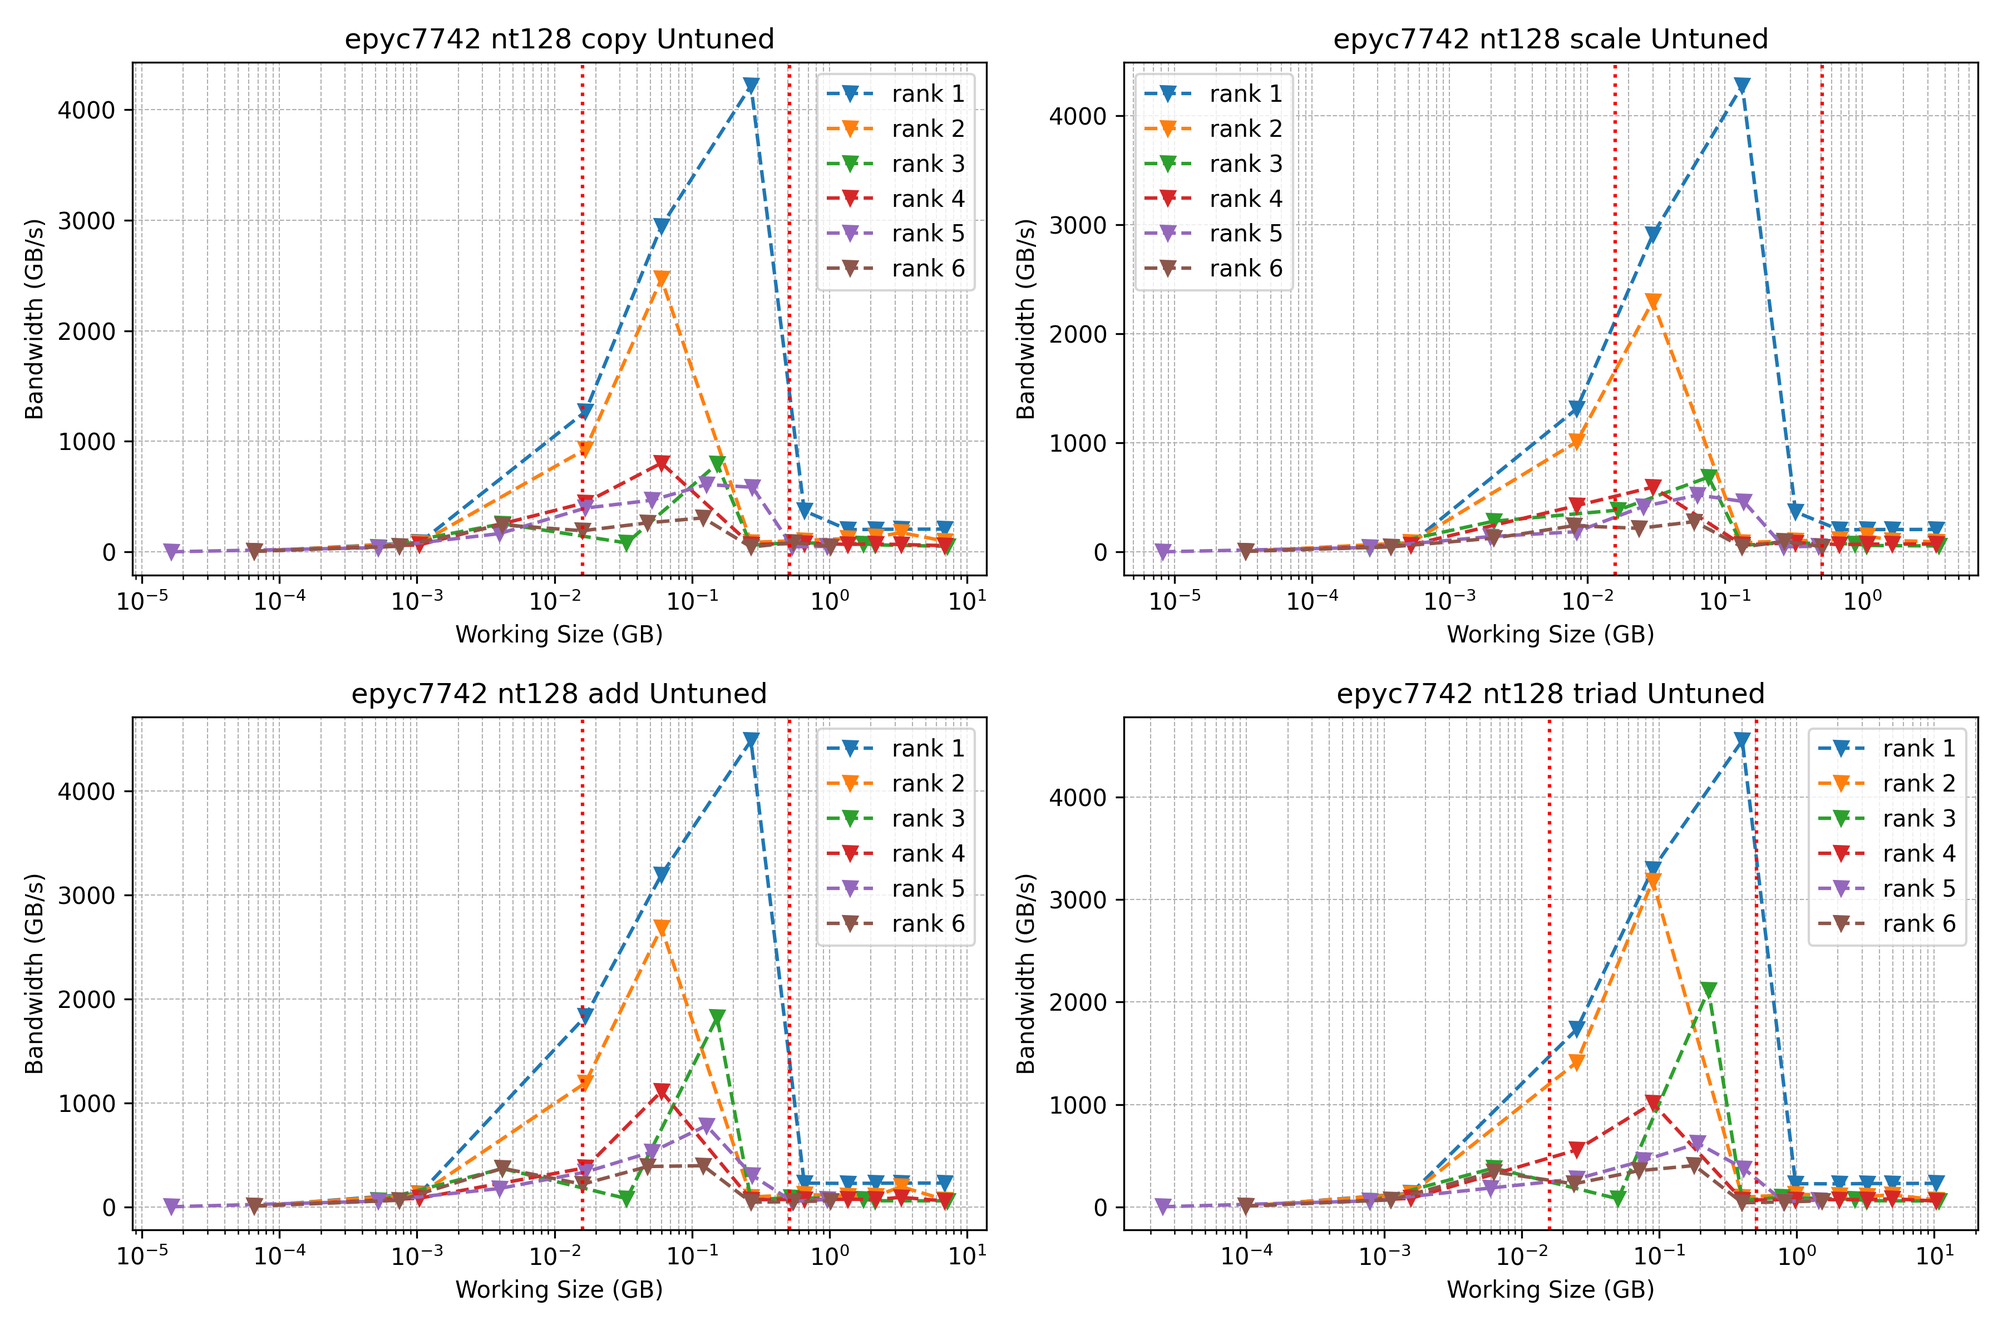
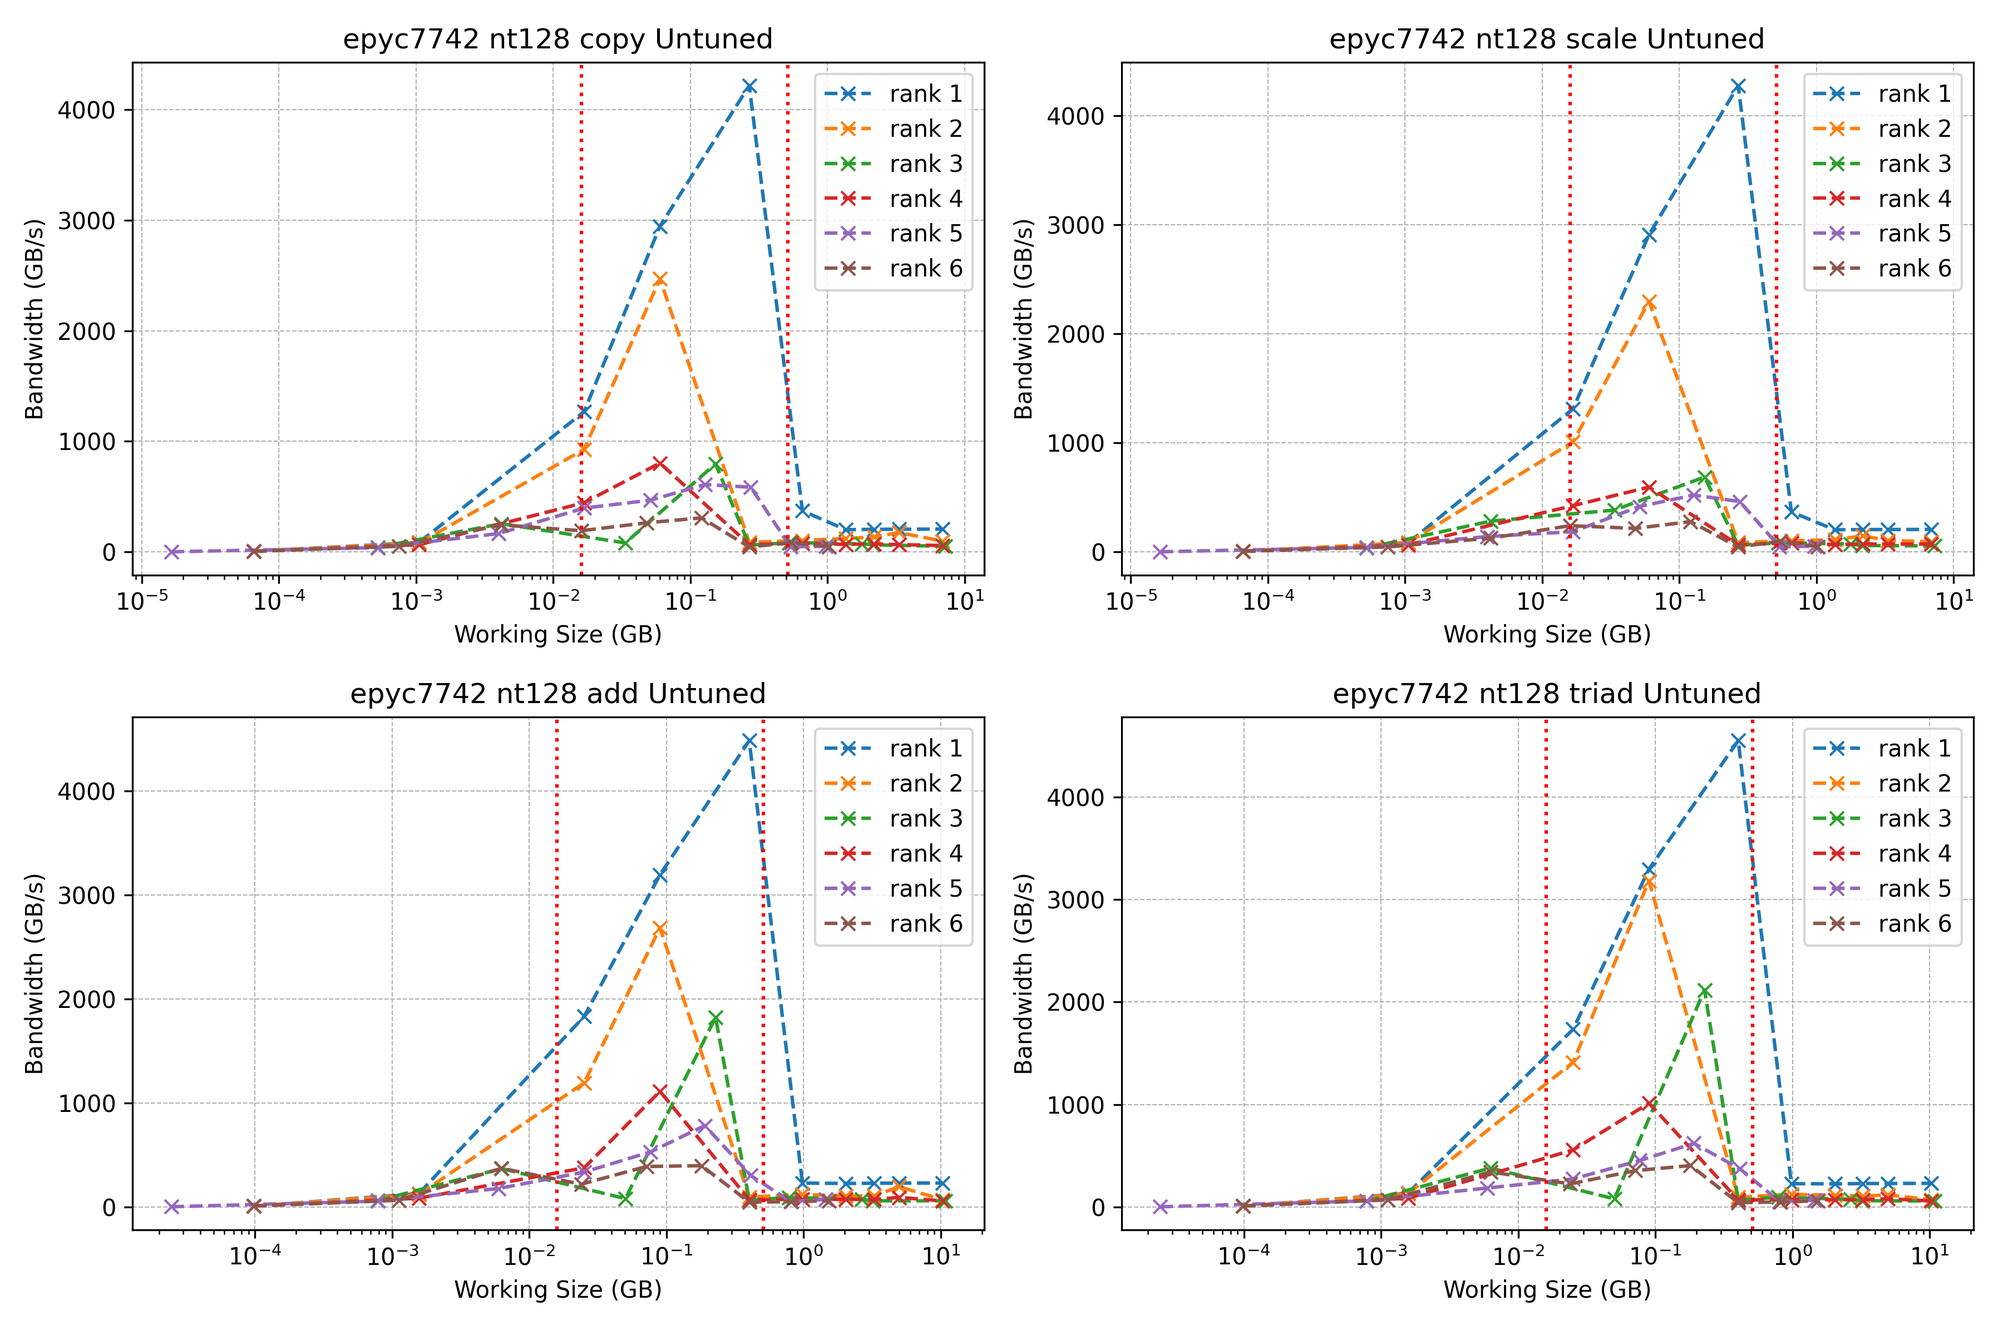
added more stuff

diff --git a/index.html b/index.html
@@ -35,21 +35,21 @@
           <p class="fragment">
             Kokkos supports multidimensional data structures via Views
           </p>
-          <pre class="fragment"><code data-trim data-line-numbers><script type="text/template">
+          <pre class="fragment"><code data-trim data-line-numbers class="language-cpp"><script type="text/template">
             // 4D View of doubles
             Kokkos::View<double****> view4d("view4d", dim1, dim2, dim3, dim4);
           </script></code></pre>
           <p class="fragment">
             And parallel iteration spaces via <code>MDRangePolicy</code>
           </p>
-          <pre class="fragment"><code data-trim data-line-numbers><script type="text/template">
+          <pre class="fragment"><code data-trim data-line-numbers class="language-cpp"><script type="text/template">
             // 4D iteration space
             Kokkos::MDRangePolicy<Kokkos::Rank<4>> policy4d({0,0,0,0}, {dim1, dim2, dim3, dim4});
           </script></code></pre>
           <p class="fragment">
             Finally, perform kernel execution via a parallel dispatch
           </p>
-          <pre class="fragment"><code data-trim data-line-numbers><script type="text/template">
+          <pre class="fragment"><code data-trim data-line-numbers class="language-cpp"><script type="text/template">
             // C = A + B for 4D Views
             Kokkos::parallel_for("4d_add", policy4d, 
             KOKKOS_LAMBDA(const int i, const int j, const int k, const int l) {
@@ -81,7 +81,7 @@
           <p class="fragment">
             This is done via seting a "tile size" for each dimension of the iteration space
           </p>
-          <pre class="fragment"><code data-trim data-line-numbers="4"><script type="text/template">
+          <pre class="fragment"><code data-trim data-line-numbers="4" class="language-cpp"><script type="text/template">
             // 4D iteration space with tile sizes
             Kokkos::MDRangePolicy<Kokkos::Rank<4>> policy4d(
               {0,0,0,0}, {dim1, dim2, dim3, dim4},
@@ -107,20 +107,109 @@
           <p class="fragment">
             Should be able to drop and replace existing code
           </p>
-          <pre class="fragment"><code data-trim data-line-numbers="2"><script type="text/template">
+          <pre class="fragment"><code data-trim data-line-numbers="2" class="language-cpp"><script type="text/template">
             // original Kokkos dispatch
             Kokkos::parallel_for("4d_add", policy4d, 
               KOKKOS_LAMBDA(const int i, const int j, const int k, const int l) {
                 C(i,j,k,l) = A(i,j,k,l) + B(i,j,k,l);
               });
           </script></code></pre>
-          <pre class="fragment"><code data-trim data-line-numbers="2"><script type="text/template">
+          <pre class="fragment"><code data-trim data-line-numbers="2" class="language-cpp"><script type="text/template">
             // KTune dispatch
             KTune::parallel_for("4d_add", policy4d, 
               KOKKOS_LAMBDA(const int i, const int j, const int k, const int l) {
                 C(i,j,k,l) = A(i,j,k,l) + B(i,j,k,l);
               });
           </script></code></pre>
+        </section>
+        <section>
+          <section>
+            <h3>How is the performance?</h3>
+            <img class="fragment" src="plots/stream_benchmark_epyc7742_tuned_vs_untuned.png" width="800px"/>
+          </section>
+          <section>
+            <h3>So do we reach rank 1 performance?</h3>
+            <img class="fragment" src="plots/stream_benchmark_epyc7742_tuned_all_ranks_add.png" width="800px"/>
+            <p class="fragment">
+              Almost!
+            </p>
+            <p class="fragment">
+              There will always be some overheads at higher ranks
+            </p>
+            <p class="fragment">
+              But in the streaming region we saturate the bandwidth (rank < 5)
+            </p>
+          </section>
+        </section>
+        <section>
+          <section>
+            <h3>How about on the gpu?</h3>
+            <img class="fragment" src="plots/stream_benchmark_gpu_all_ranks_add.png" width="800px"/>
+          </section>
+          <section>
+            <p>zooming in...</p>
+            <img class="fragment" src="plots/stream_benchmark_gpu_all_ranks_add_zoomed.png" width="800px"/>
+          </section>
+        </section>
+        <section>
+          <h3>An Interesting Use Case : AoS</h3>
+          <p class="fragment">
+            Imagine a scenario where we have a <code>N x M</code> matrix at every site
+          </p>
+          <pre class="fragment"><code data-trim data-line-numbers class="language-cpp"><script type="text/template">
+            // 4D View representing a field of N x M matrices
+            template <typename RT, size_t N, size_t M>
+            using ViewMatrixField4D = Kokkos::View<RT****[N][M]>;
+          </script></code></pre>
+          <p class="fragment">
+            Writing complex kernels over such data structures is tedious
+          </p>
+          <p class="fragment">
+            However, with an Array-of-Structs (AoS) layout, we can simplify the kernel code
+          </p>
+          <pre class="fragment"><code data-trim data-line-numbers class="language-cpp"><script type="text/template">
+            // N x M matrix type
+            template <typename RT, size_t N, size_t M>
+            using Matrix = Kokkos::Array<Kokkos::Array<RT, M>, N>;
+            // 4D View of matrices
+            template <typename RT, size_t N, size_t M>
+            using ViewMatrixField4D_AoS = Kokkos::View<Matrix<RT,N,M>****>;
+          </script></code></pre>
+          <p class="fragment">
+            And can easily use operator overloads
+          </p>
+          <pre class="fragment"><code data-trim data-line-numbers class="language-cpp"><script type="text/template">
+            template <typename RT, size_t N, size_t K, size_t M>
+            KOKKOS_FORCEINLINE_FUNCTION Matrix<RT, N, M>
+            operator*(const Matrix<RT, N, K> &A, const Matrix<RT, K, M> &B)
+          </script></code></pre>
+        </section>
+
+        <section>
+          More Benchmarks....
+        </section>
+        <section>
+          <h3>How to integrate KTune in your code</h3>
+          <p class="fragment">
+            Can add as a third-party library (with git submodule for example)
+          </p>
+          <pre class="fragment"><code data-trim data-line-numbers class="language-cmake"><script type="text/template">
+            add_subdirectory(path/to/KTune)
+            target_link_libraries(your_target PRIVATE KTune::KTune)
+          </script></code></pre>
+          <p class="fragment">
+            or simply copy the contents of <code>include/KTune</code> to your project include directory
+          </p>
+          <p class="fragment">
+            Include the main header where you want to use KTune
+          </p>
+          <pre class="fragment"><code data-trim data-line-numbers class="language-cpp"><script type="text/template">
+            #include "KTune/KTune.hpp"
+          </script></code></pre>
+          <p class="fragment">
+            And replace <code>Kokkos::parallel_for</code> and <code>Kokkos::parallel_reduce</code> calls with <code>KTune::parallel_for</code> and <code>KTune::parallel_reduce</code>
+          </p>
+          <h1 class="fragment">Wanna try it out? -- Contact Us!</h1>
         </section>
 			</div>
 		</div>

diff --git a/plots/plots-jsc-talk.py b/plots/plots-jsc-talk.py
@@ -15,15 +15,33 @@ L3 = 512e6  # 512 MB
 fig, axs = plt.subplots(2, 2, figsize=(12, 8))
 for KERNEL in KERNELS:
   ax = axs.flatten()[KERNELS.index(KERNEL)]
-  nviews = {"copy":2, "scale":1, "add":2, "triad":3}
+  nviews = {"copy":2, "scale":2, "add":3, "triad":3}
   for rank in RANKS:
     dat_untuned = np.genfromtxt(f'/home/sen/projects/ktune_benchmarks/jureca/stream/stream_benchmark_{KERNEL}_{ARCH}_nt128_rank{rank}_untuned.dat', delimiter=',', dtype=float)
-    ax.plot(dat_untuned[:,0]**rank*8*1e-9*nviews[KERNEL], dat_untuned[:,3], 'v--', label=f'rank {rank}')
+    ax.plot(dat_untuned[:,0]**rank*8*1e-9*nviews[KERNEL], dat_untuned[:,3], 'x--', label=f'rank {rank}')
+  ax.axvline(L2*1e-9, color='red', linestyle=':')
+  ax.axvline(L3*1e-9, color='red', linestyle=':')
+  ax.grid(True, linestyle='--', linewidth=0.5)
+  ax.legend(loc='best')
+  ax.set_xlabel('Working Size (GB)')
+  ax.set_ylabel('Bandwidth (GB/s)')
+  ax.set_xscale('log')
+  ax.set_title(f'{ARCH} nt128 {KERNEL} Untuned')
+plt.tight_layout()
+plt.savefig(f'stream_benchmark_{ARCH}_all_ranks_untuned.png', dpi=300)
+
+fig, axs = plt.subplots(2, 2, figsize=(12, 8))
+for KERNEL in KERNELS:
+  ax = axs.flatten()[KERNELS.index(KERNEL)]
+  nviews = {"copy":2, "scale":2, "add":3, "triad":3}
+  for rank in RANKS:
+    dat_untuned = np.genfromtxt(f'/home/sen/projects/ktune_benchmarks/jureca/stream/stream_benchmark_{KERNEL}_{ARCH}_nt128_rank{rank}_untuned.dat', delimiter=',', dtype=float)
+    ax.plot(dat_untuned[:,0]**rank*8*1e-9*nviews[KERNEL], dat_untuned[:,3], 'x--', label=f'rank {rank}')
   ax.axvline(L2*1e-9, color='red', linestyle=':')
   ax.axvline(L3*1e-9, color='red', linestyle=':')
   ax.set_xlim(0.1, 12)
   ax.set_ylim(0, 300)
-  ax.grid(True, which='both', linestyle='--', linewidth=0.5)
+  ax.grid(True, linestyle='--', linewidth=0.5)
   ax.legend(loc='best')
   ax.set_xlabel('Working Size (GB)')
   ax.set_ylabel('Bandwidth (GB/s)')
@@ -32,6 +50,159 @@ for KERNEL in KERNELS:
 plt.tight_layout()
 plt.savefig(f'stream_benchmark_{ARCH}_all_ranks_untuned_zoomed.png', dpi=300)
 
+fig, axs = plt.subplots(2, 2, figsize=(12, 8))
+rank = 3
+for KERNEL in KERNELS:
+  ax = axs.flatten()[KERNELS.index(KERNEL)]
+  nviews = {"copy":2, "scale":2, "add":3, "triad":3}
+  dat_tuned = np.genfromtxt(f'/home/sen/projects/ktune_benchmarks/jureca/stream/stream_benchmark_{KERNEL}_{ARCH}_nt128_rank{rank}_tuned.dat', delimiter=',', dtype=float)
+  dat_untuned = np.genfromtxt(f'/home/sen/projects/ktune_benchmarks/jureca/stream/stream_benchmark_{KERNEL}_{ARCH}_nt128_rank{rank}_untuned.dat', delimiter=',', dtype=float)
+  ax.plot(dat_tuned[:,0]**rank*8*1e-9*nviews[KERNEL], dat_tuned[:,3], '^--', label='Tuned')
+  ax.plot(dat_untuned[:,0]**rank*8*1e-9*nviews[KERNEL], dat_untuned[:,3], 'x--', label='Untuned')
+  ax.axvline(L2*1e-9, color='red', linestyle=':')
+  ax.axvline(L3*1e-9, color='red', linestyle=':')
+  ax.grid(True, linestyle='--', linewidth=0.5)
+  ax.legend()
+  ax.set_xlabel('Working Size (GB)')
+  ax.set_ylabel('Bandwidth (GB/s)')
+  ax.set_xscale('log')
+  ax.set_title(f'{ARCH} nt128 rank {rank} {KERNEL}')
+  rank += 1
+plt.tight_layout()
+plt.savefig(f'stream_benchmark_{ARCH}_tuned_vs_untuned.png', dpi=300)
+
+fig, axs = plt.subplots(1, 2, figsize=(12, 4))
+KERNEL = "add"
+ax = axs[0]
+nviews = {"copy":2, "scale":2, "add":3, "triad":3}
+for rank in RANKS:
+  dat_tuned = np.genfromtxt(f'/home/sen/projects/ktune_benchmarks/jureca/stream/stream_benchmark_{KERNEL}_{ARCH}_nt128_rank{rank}_tuned.dat', delimiter=',', dtype=float)
+  ax.plot(dat_tuned[:,0]**rank*8*1e-9*nviews[KERNEL], dat_tuned[:,3], '^--', label=f'rank {rank}')
+ax.axvline(L2*1e-9, color='red', linestyle=':')
+ax.axvline(L3*1e-9, color='red', linestyle=':')
+ax.grid(True, linestyle='--', linewidth=0.5)
+ax.legend(loc='best')
+ax.set_xlabel('Working Size (GB)')
+ax.set_ylabel('Bandwidth (GB/s)')
+ax.set_xscale('log')
+ax.set_title(f'{ARCH} nt128 {KERNEL} Tuned')
+ax = axs[1]
+for rank in RANKS:
+  dat_tuned = np.genfromtxt(f'/home/sen/projects/ktune_benchmarks/jureca/stream/stream_benchmark_{KERNEL}_{ARCH}_nt128_rank{rank}_tuned.dat', delimiter=',', dtype=float)
+  ax.plot(dat_tuned[:,0]**rank*8*1e-9*nviews[KERNEL], dat_tuned[:,3], '^--', label=f'rank {rank}')
+ax.axvline(L2*1e-9, color='red', linestyle=':')
+ax.axvline(L3*1e-9, color='red', linestyle=':')
+ax.grid(True, linestyle='--', linewidth=0.5)
+ax.set_xlim(0.1, 12)
+ax.set_ylim(0, 300)
+ax.legend(loc='best')
+ax.set_xlabel('Working Size (GB)')
+ax.set_ylabel('Bandwidth (GB/s)')
+ax.set_xscale('log')
+ax.set_title(f'{ARCH} nt128 {KERNEL} Tuned')
+plt.tight_layout()
+plt.savefig(f'stream_benchmark_{ARCH}_tuned_all_ranks_add.png', dpi=300)
+
+
+ARCH = "a100"
+KERNEL = "add"
+RANKS = [2, 3, 4]
+
+fig, axs = plt.subplots(1, 2, figsize=(12, 8))
+nviews = {"copy":2, "scale":2, "add":3, "triad":3}
+ax = axs[0]
+for rank in RANKS:
+  dat_tuned = np.genfromtxt(f'/home/sen/projects/ktune_benchmarks/jureca/stream/stream_benchmark_{KERNEL}_{ARCH}_nt128_rank{rank}_tuned.dat', delimiter=',', dtype=float)
+  dat_untuned = np.genfromtxt(f'/home/sen/projects/ktune_benchmarks/jureca/stream/stream_benchmark_{KERNEL}_{ARCH}_nt128_rank{rank}_untuned.dat', delimiter=',', dtype=float)
+  ax.plot(dat_tuned[:,0]**rank*8*1e-9*nviews[KERNEL], dat_tuned[:,3], '^--', label=f'rank {rank} Tuned')
+  ax.plot(dat_untuned[:,0]**rank*8*1e-9*nviews[KERNEL], dat_untuned[:,3], 'x--', label=f'rank {rank} Untuned')
+ax.grid(True, linestyle='--', linewidth=0.5)
+ax.legend(loc='best')
+ax.set_xlabel('Working Size (GB)')
+ax.set_ylabel('Bandwidth (GB/s)')
+ax.set_xscale('log')
+ax.set_title(f'{ARCH} {KERNEL}')
+ax = axs[1]
+ARCH = "mi250"
+for rank in RANKS:
+  dat_tuned = np.genfromtxt(f'/home/sen/projects/ktune_benchmarks/lumi/stream/stream_benchmark_{KERNEL}_{ARCH}_nt6_rank{rank}_tuned.dat', delimiter=',', dtype=float)
+  dat_untuned = np.genfromtxt(f'/home/sen/projects/ktune_benchmarks/lumi/stream/stream_benchmark_{KERNEL}_{ARCH}_nt6_rank{rank}_untuned.dat', delimiter=',', dtype=float)
+  ax.plot(dat_tuned[:,0]**rank*8*1e-9*nviews[KERNEL], dat_tuned[:,3], '^--', label=f'rank {rank} Tuned')
+  ax.plot(dat_untuned[:,0]**rank*8*1e-9*nviews[KERNEL], dat_untuned[:,3], 'x--', label=f'rank {rank} Untuned')
+ax.grid(True, linestyle='--', linewidth=0.5)
+ax.legend(loc='best')
+ax.set_xlabel('Working Size (GB)')
+ax.set_ylabel('Bandwidth (GB/s)')
+ax.set_xscale('log')
+ax.set_title(f'{ARCH} {KERNEL}')
+plt.tight_layout()
+plt.savefig(f'stream_benchmark_gpu_all_ranks_add.png', dpi=300)
+
+fig, axs = plt.subplots(1, 2, figsize=(12, 8))
+nviews = {"copy":2, "scale":2, "add":3, "triad":3}
+ARCH = "a100"
+ax = axs[0]
+for rank in RANKS:
+  dat_tuned = np.genfromtxt(f'/home/sen/projects/ktune_benchmarks/jureca/stream/stream_benchmark_{KERNEL}_{ARCH}_nt128_rank{rank}_tuned.dat', delimiter=',', dtype=float)
+  dat_untuned = np.genfromtxt(f'/home/sen/projects/ktune_benchmarks/jureca/stream/stream_benchmark_{KERNEL}_{ARCH}_nt128_rank{rank}_untuned.dat', delimiter=',', dtype=float)
+  ax.plot(dat_tuned[:,0]**rank*8*1e-9*nviews[KERNEL], dat_tuned[:,3], '^--', label=f'rank {rank} Tuned')
+  ax.plot(dat_untuned[:,0]**rank*8*1e-9*nviews[KERNEL], dat_untuned[:,3], 'x--', label=f'rank {rank} Untuned')
+ax.grid(True, linestyle='--', linewidth=0.5)
+ax.set_xlim(0.1, 12)
+ax.set_ylim(850, 1500)
+ax.legend(loc='best')
+ax.set_xlabel('Working Size (GB)')
+ax.set_ylabel('Bandwidth (GB/s)')
+ax.set_xscale('log')
+ax.set_title(f'{ARCH} {KERNEL}')
+ax = axs[1]
+ARCH = "mi250"
+for rank in RANKS:
+  dat_tuned = np.genfromtxt(f'/home/sen/projects/ktune_benchmarks/lumi/stream/stream_benchmark_{KERNEL}_{ARCH}_nt6_rank{rank}_tuned.dat', delimiter=',', dtype=float)
+  dat_untuned = np.genfromtxt(f'/home/sen/projects/ktune_benchmarks/lumi/stream/stream_benchmark_{KERNEL}_{ARCH}_nt6_rank{rank}_untuned.dat', delimiter=',', dtype=float)
+  ax.plot(dat_tuned[:,0]**rank*8*1e-9*nviews[KERNEL], dat_tuned[:,3], '^--', label=f'rank {rank} Tuned')
+  ax.plot(dat_untuned[:,0]**rank*8*1e-9*nviews[KERNEL], dat_untuned[:,3], 'x--', label=f'rank {rank} Untuned')
+ax.grid(True, linestyle='--', linewidth=0.5)
+ax.set_xlim(0.1, 10)
+ax.set_ylim(650, 1400)
+ax.legend(loc='best')
+ax.set_xlabel('Working Size (GB)')
+ax.set_ylabel('Bandwidth (GB/s)')
+ax.set_xscale('log')
+ax.set_title(f'{ARCH} {KERNEL}')
+plt.tight_layout()
+plt.savefig(f'stream_benchmark_gpu_all_ranks_add_zoomed.png', dpi=300)
+
+RANKS = [2, 3, 4]
+
+NS = [3, 6]
+KS = [3, 3]
+MS = [3, 4]
+
+ARCH = "a100"
+
+pi = 0
+fig, axs = plt.subplots(2, 3, figsize=(10, 8))
+for ii in range(2):
+  for rank in RANKS:
+    N = NS[ii]
+    K = KS[ii]
+    M = MS[ii]
+    dat_AoS = np.genfromtxt(f'/home/sen/projects/ktune_benchmarks/qbig/mm-AoS/mm_AoS_N{N}M{M}K{K}_{ARCH}_rank{rank}_untuned.dat', delimiter=',', dtype=float)
+    dat_views = np.genfromtxt(f'/home/sen/projects/ktune_benchmarks/qbig/mm-views/mm_views_N{N}M{M}K{K}_{ARCH}_rank{rank}_untuned.dat', delimiter=',', dtype=float)
+    ax = axs.flatten()[pi]
+    ax.plot(dat_AoS[:,0]**rank*(N*K+K*M+N*M)*8*1e-9, dat_AoS[:,1], '^--', label='AoS Untuned')
+    ax.plot(dat_views[:,0]**rank*(N*K+K*M+N*M)*8*1e-9, dat_views[:,1], 'x--', label='Views Untuned')
+    ax.grid(True, linestyle='--', linewidth=0.5)
+    ax.legend()
+    ax.set_xlabel('Working Size (GB)')
+    ax.set_ylabel('Bandwidth (GB/s)')
+    ax.set_xscale('log')
+    ax.set_title(f'{ARCH} rank {rank} N{N}K{K}M{M}')
+    pi += 1
+    plt.tight_layout()
+plt.savefig(f'mm_benchmark_{ARCH}_AoS_vs_Views.png', dpi=300)
+
 # for ARCH in ARCHS:
 #   of = matplotlib.backends.backend_pdf.PdfPages(f'stream_benchmark_{ARCH}_comparison.pdf')
 #   for rank in RANKS:
@@ -39,11 +210,11 @@ plt.savefig(f'stream_benchmark_{ARCH}_all_ranks_untuned_zoomed.png', dpi=300)
 #     for KERNEL in KERNELS:
 #       dat_tuned = np.genfromtxt(f'/home/sen/projects/ktune_benchmarks/jureca/stream/stream_benchmark_{KERNEL}_{ARCH}_nt128_rank{rank}_tuned.dat', delimiter=',', dtype=float)
 #       dat_untuned = np.genfromtxt(f'/home/sen/projects/ktune_benchmarks/jureca/stream/stream_benchmark_{KERNEL}_{ARCH}_nt128_rank{rank}_untuned.dat', delimiter=',', dtype=float)
-#       nviews = {"copy":2, "scale":1, "add":2, "triad":3}
+#       nviews = {"copy":2, "scale":2, "add":3, "triad":3}
 #       ax = axs.flatten()[KERNELS.index(KERNEL)]
 #       ax.plot(dat_tuned[:,0]**rank*8*1e-9*nviews[KERNEL], dat_tuned[:,3], '^--', label='Tuned')
-#       ax.plot(dat_untuned[:,0]**rank*8*1e-9*nviews[KERNEL], dat_untuned[:,3], 'v--', label='Untuned')
-#       ax.grid(True, which='both', linestyle='--', linewidth=0.5)
+#       ax.plot(dat_untuned[:,0]**rank*8*1e-9*nviews[KERNEL], dat_untuned[:,3], 'x--', label='Untuned')
+#       ax.grid(True, linestyle='--', linewidth=0.5)
 #       ax.legend()
 #       ax.set_xlabel('Array Size (GB)')
 #       ax.set_ylabel('Bandwidth (GB/s)')
